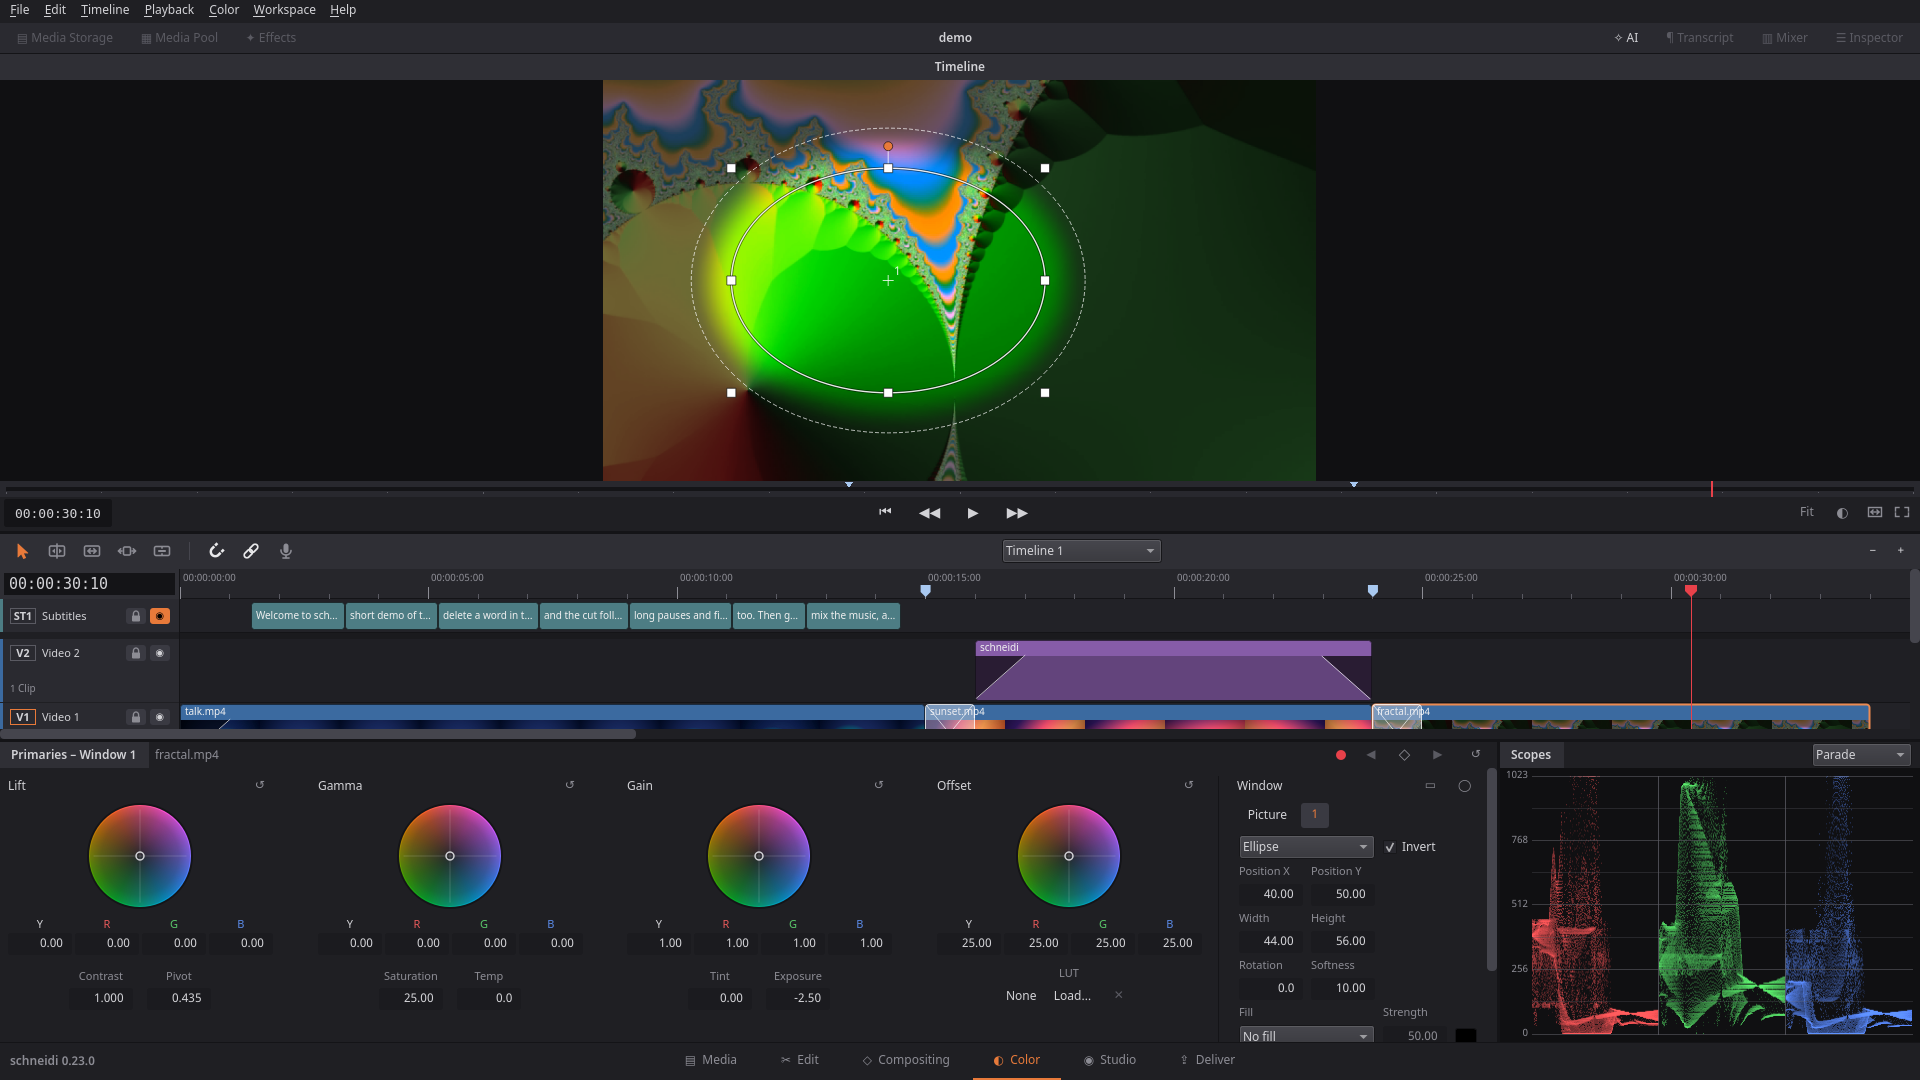
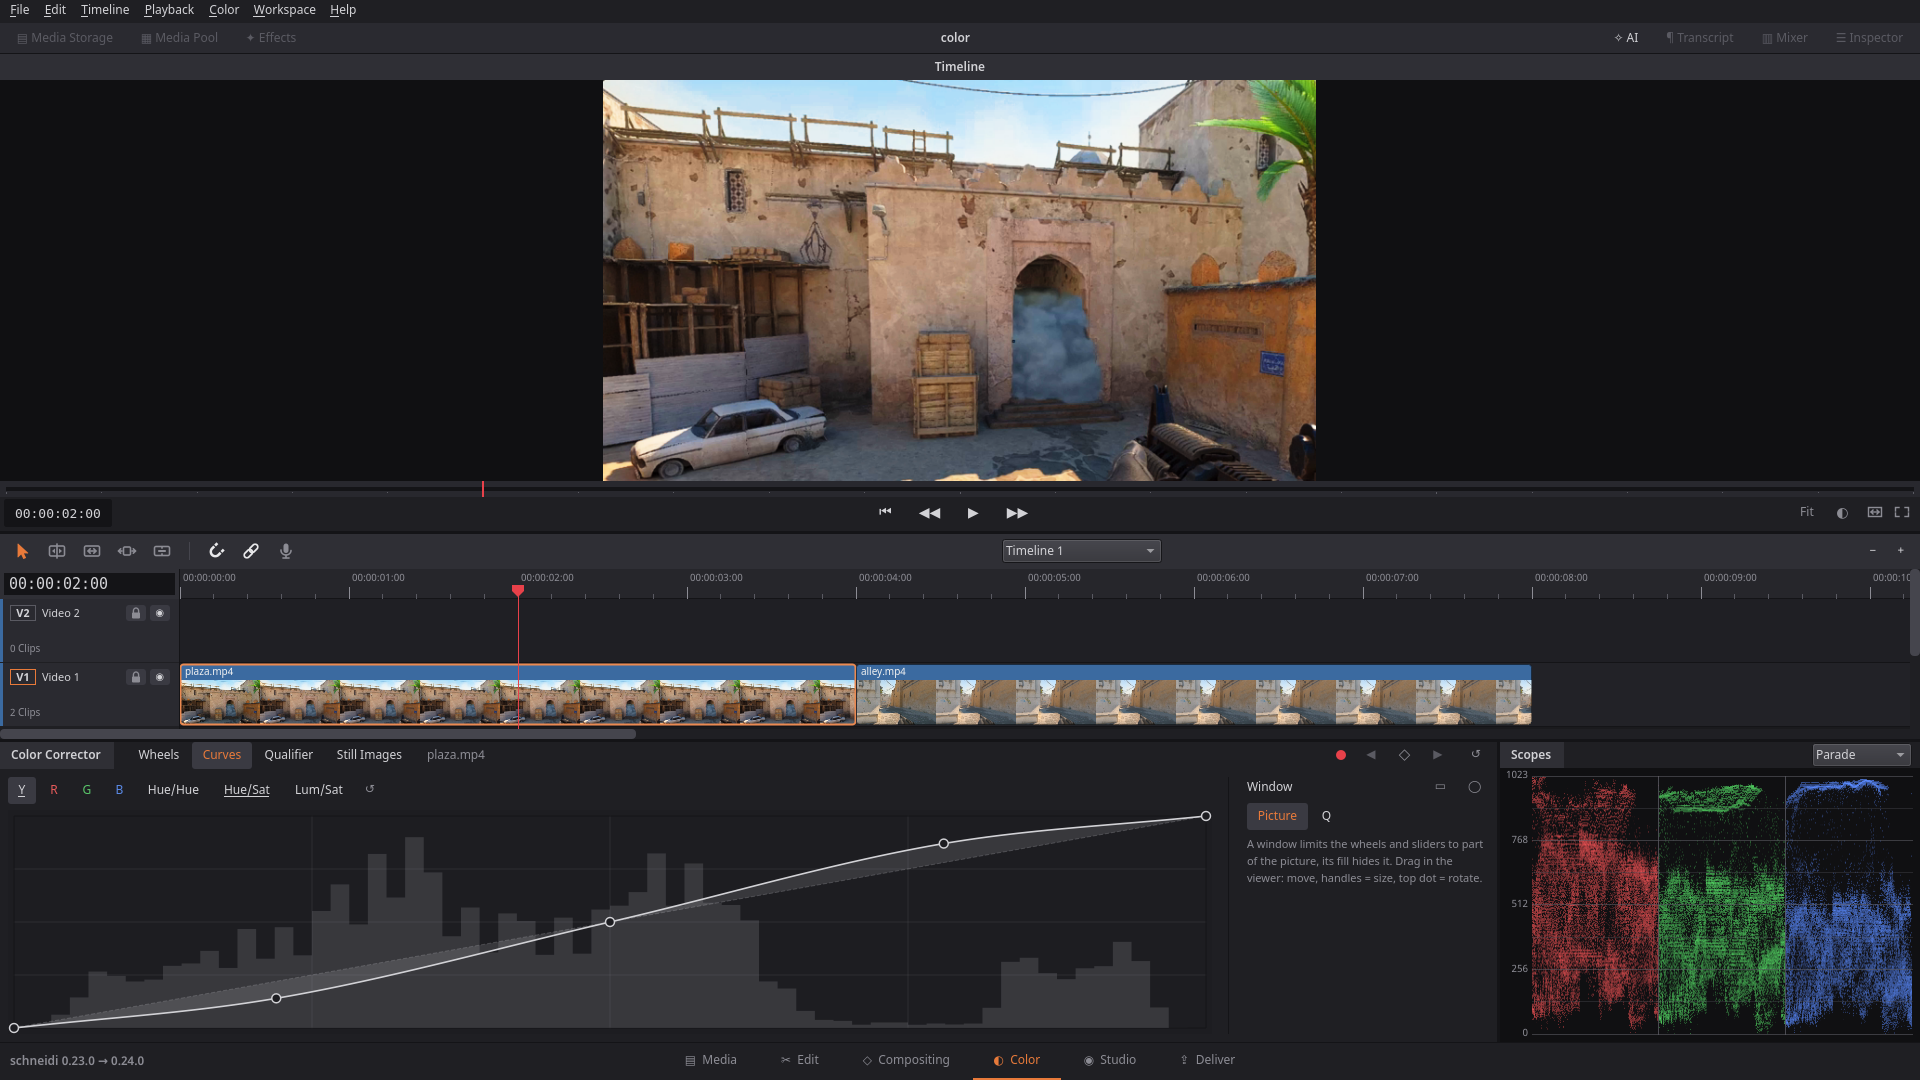
README: new Color page screenshots for 0.24 (curves, stills before/after wipe), colour features in the list
color.png shows the curves palette with an S curve over the histogram and the RGB parade;
the new color-stills.png compares the ungraded still with the graded picture as a wipe.
Feature list: curves, qualifier, master wheels, stills gallery, HDR to SDR, 10-bit export.

diff --git a/README.md b/README.md
@@ -76,6 +76,9 @@ With the AppImage the command is the AppImage itself and the arguments are `["cl
 ![Compositing page: the title MAIN STREET goes behind a green pillar; the pillar's outline, picked with one click, is the selected mask node, with "Pick surface in picture" and its points in the Inspector](screenshots/behind.png)
 **Text behind an object** – click "Pick surface in picture" and then the wall, pillar or car: schneidi outlines it, and the title passes behind it (the mask follows a tracker when the camera moves)
 
+![Color page: the stills gallery compares the ungraded still "Before" with the graded picture – a wipe line splits the viewer into the flat original on the left and the warmer, deeper version with a blue sky on the right](screenshots/color-stills.png)
+**Before and after** – keep a still of a grade and wipe across it in the viewer to see before and after (or show both side by side), then apply that grade to other clips; the deeper sky comes from the qualifier, which grades only the colors it picks
+
 ![Studio page: the audio tracks fill the page with large waveforms – the music ducked under the dialog and a voiceover, a drawn level curve with points on the music track; on the right a small viewer, the loudness readout and a mixer column with a narrow strip per track (EQ and compressor curves, pan, mute/solo, fader) and the master with its limiter](screenshots/studio.png)
 **Studio** – the mix on its own page: shape a track's level or pan with points or the pen (or ride the fader in write mode while it plays), a narrow mixer strip per track with its EQ and compressor curves a click away, and one-click tools to clean a voice, duck the music under speech or bring the whole mix to a target loudness
 
@@ -84,7 +87,7 @@ With the AppImage the command is the AppImage itself and the arguments are `["cl
 
 | | |
 |---|---|
-| [![Media page: Media Storage and Media Pool](screenshots/media.png)](screenshots/media.png)<br>**Media** – browse and skim folders, import into the Media Pool | [![Color page: a window darkens everything outside an ellipse, color wheels and RGB parade](screenshots/color.png)](screenshots/color.png)<br>**Color** – color wheels, windows, LUTs, scopes |
+| [![Media page: Media Storage and Media Pool](screenshots/media.png)](screenshots/media.png)<br>**Media** – browse and skim folders, import into the Media Pool | [![Color page: the curves palette with an S curve over the histogram of a graded, sunlit courtyard from a game, RGB parade on the right](screenshots/color.png)](screenshots/color.png)<br>**Color** – wheels, curves, qualifier, stills, windows, LUTs, scopes |
 | [![Deliver page: render settings and render queue](screenshots/deliver.png)](screenshots/deliver.png)<br>**Deliver** – presets and render queue | [![Multicam view: nine angles of one event side by side](screenshots/multicam.png)](screenshots/multicam.png)<br>**Multicam** – click an angle or press 1–9 to cut to it |
 | [![Compositing page in the layer view: the same graph as a stack of layers with blend mode, mask and opacity](screenshots/comp-layers.png)](screenshots/comp-layers.png)<br>**Layers** – the same graph as a stack: blend mode, mask, opacity | [![A real 3D title: extruded, beveled golden letters turned in space, with the 3D section of the title Inspector](screenshots/title3d.png)](screenshots/title3d.png)<br>**3D titles** – real extruded letters with bevel, light and rotation |
 
@@ -108,7 +111,9 @@ With the AppImage the command is the AppImage itself and the arguments are `["cl
 - **Recipes:** green screen, text behind the subject, a blurred face that follows, picture-in-picture with a frame, a title with a mild glitch, a tracked sticker – one click in the Effects Library; save your own graph as a recipe and share it as a ZIP
 - **Write your own effects:** an FFmpeg filter chain or your own GLSL shader as an effect – written by you or an AI; code that comes with someone else's project or recipe runs only after you say you trust it
 - Titles (also an animated counter and a progress bar) with **title looks** – gradient or texture fill, a 2.5D edge, drop shadow, glow – and **real 3D text** (extruded, beveled, lit, turned in space), subtitles, fades, transitions (dissolves, dips, wipes, push and whip), volume, loudness normalization
-- Color correction, curves, LUTs, effects with keyframes in any order; a built-in **Edit look** preset (teal shadows, warm highlights, skin kept, a soft glow) in one click; copy and paste grades (`=`/`-`); the timeline filmstrip and the Media Pool show the grade; green screen with an eyedropper on a large picture of the clip
+- **Color page:** color wheels with a master wheel below each, **curves** (master, R, G, B, hue vs hue, hue vs saturation, luma vs saturation) over a histogram of the picture, a **qualifier** that picks a color – sky, skin – by hue, saturation and brightness with soft edges, a mask view and its own correction, and a **stills** gallery to compare grades (wipe or side by side) and copy one to other clips
+- **HDR phone footage** (HLG, PQ) looks right without a setting: shown and exported as SDR (switchable per clip); 10-bit export for H.265 and AV1
+- Color correction, LUTs, effects with keyframes in any order; a built-in **Edit look** preset (teal shadows, warm highlights, skin kept, a soft glow) in one click; copy and paste grades (`=`/`-`); the timeline filmstrip and the Media Pool show the grade; green screen with an eyedropper on a large picture of the clip
 - **A format per timeline:** a 9:16 short (or 1:1, 4:5) next to the 16:9 edit in one project; copy a timeline into another shape in one step; pasting between timelines of different shapes converts positions
 - **Auto reframe:** footage fills a frame of another shape and follows its subject – the view holds still, moves smoothly and jumps only at scene cuts; in game footage the kill feed stays readable as a cropped copy at the top. Or fit the whole picture in with a blurred copy around it, on one track; **accents** (zoom punch, flash, shake) on hits and drops in one click
 - **4:3 game footage:** black bars are found and cropped; a 4:3 game that the recorder stretched to 16:9 is unstretched (per clip, per file or as a watch folder preset) and shown with black bars or blurred sides
